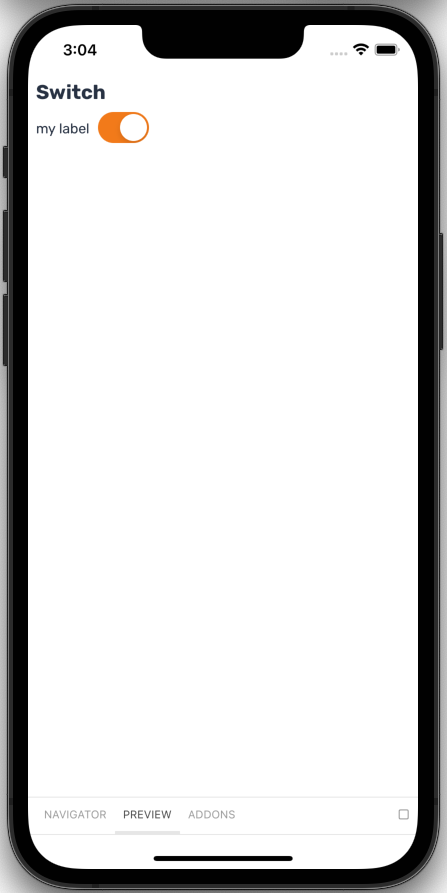
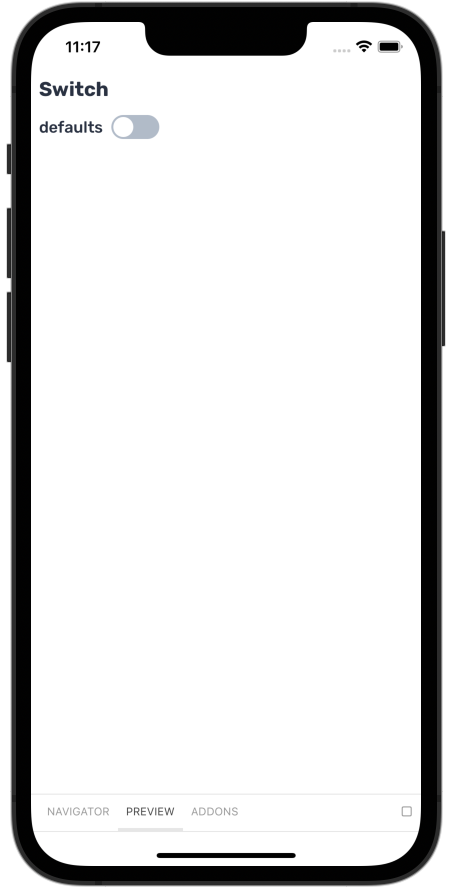
fix(switch): change screenshots for docs, adjust tests to new color

diff --git a/src/components/Switch/Switch.test.tsx b/src/components/Switch/Switch.test.tsx
@@ -62,7 +62,7 @@ describe('Switch', () => {
 
     // then
     expect(switchOuterView._fiber.pendingProps.backgroundColor).toBe(
-      'rgba(213, 217, 225, 1)',
+      'rgba(175, 187, 202, 1)',
     );
     expect(switchComponent.props.style[0].opacity).toBe(0.5);
   });
